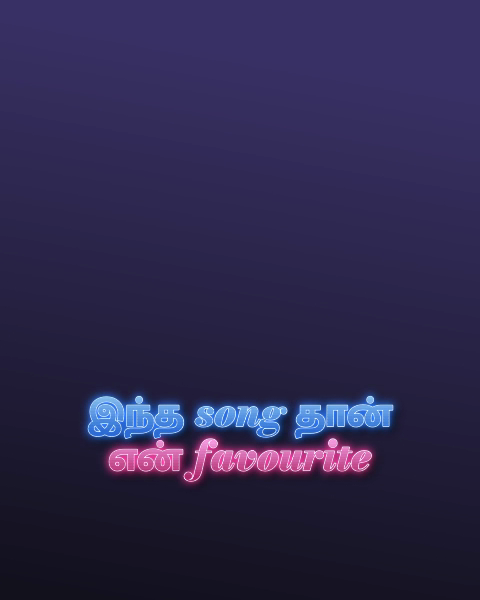
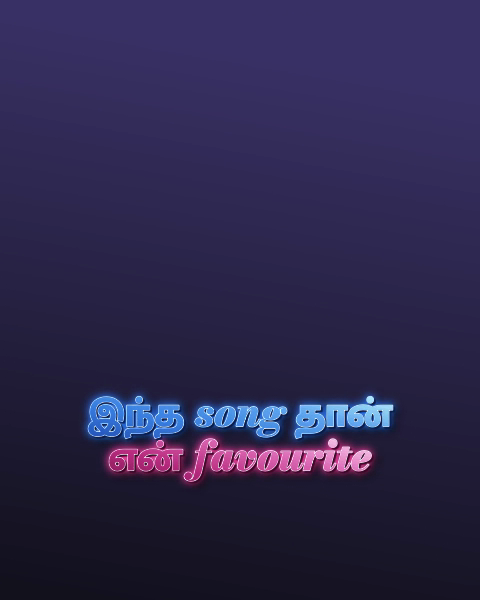
Neon Duo: satin-metal letters as in the reference: each line's metal runs from deep colour at its lower left to near-white at its upper right (light from there), a solid dark depth under the letters, the bright rim and the glow
MP4: the metal as 48 diagonal strips across the whole line (vector clips, each over the one before so no seams), over a glow layer and a rim + depth layer. Editor: the same metal across the line, each word showing its part of it.

Claude-Session: https://claude.ai/code/session_01Vg3xd9etKGRwdzvMY3ibrV

Changed region(s): [[0.1875, 0.66, 0.8438, 0.81]]

diff --git a/lib/captionStyles.ts b/lib/captionStyles.ts
@@ -103,9 +103,10 @@ export type CaptionStyle = {
   // white box flashing onto it and pulling off it (flashStack)
   flashBox?: { serif: string; flash: string; big: number };
   reveal4?: { accent: string; big: number; smallFont: string; small: number; lastFont: string; last: number; silver: [string, string] }; // h: the box's height (em of the punch; BOX_PAD.h)            // staggered lines: only the big middle line is blended (the others stay plain text)
-  // glossy neon lines (Neon Duo): each line its own gradient (top → bottom) and glow, in turn; a thin bright rim round
-  // the letters and a dark shadow under them (a Colour gradient the user sets is every line's instead)
-  neon?: { rows: { grad: [string, string]; glow: string }[]; rim: string };
+  // satin-metal neon lines (Neon Duo): each line, in turn, its metal (colours from its lower left to its upper right,
+  // the light coming from there: METAL_ANGLE), its glow and the dark depth under its letters; a thin bright rim round
+  // the letters (a Colour gradient the user sets is every line's fill instead, top → bottom)
+  neon?: { rows: { metal: [number, string][]; glow: string; depth: string }[]; rim: string };
   gradient?: [string, string];   // the text filled top colour → bottom colour, each line
   opacity?: number;              // 0-1
   rotate?: number;               // degrees, clockwise
@@ -830,7 +831,10 @@ export const CAPTION_STYLES: CaptionStyle[] = [
   { id: "cc-lifted-dot", name: "Lifted Dot", group: "Typography", blurb: "A thin italic line over a huge word; the dot of its i flies up into the italic line. Words fade in, the huge word rises letter by letter (change the colours and fonts in the Style tab).", font: "Inter SemiBold", fontTa: "Mukta Malar ExtraBold", size: 1.13, color: W, shadow: 0.05, shadowColor: "#000000", effect: "liftdot", liftDot: { serif: "Instrument Serif Italic", dot: W, big: 3.4, top: 0.59 } },
   { id: "cc-flash-box", name: "Flash Box", group: "Typography", blurb: "Right-aligned stacked lines, italic serif and clean sans; a white box flashes onto each word as it's said and pulls away to reveal it (change the colours and fonts in the Style tab).", font: "Inter Medium", fontTa: "Mukta Malar ExtraBold", size: 1.1, color: W, shadow: 0.05, shadowColor: "#000000", effect: "flashbox", flashBox: { serif: "Playfair Display Bold Italic", flash: W, big: 2.1 } },
   { id: "cc-letter-rise", name: "Letter Rise", group: "Typography", blurb: "Handwritten Caveat letters flowing in around a big Bebas Neue keyword on its own line.", font: "Caveat Bold", fontTa: "Hind Madurai", size: 1.29, color: W, shadow: 0.04, lineHeight: 0.8, reveal: "letters", flow: true, keyword: { font: "Bebas Neue", scale: 1.57, line: true } },
-  { id: "cc-neon-duo", name: "Neon Duo", group: "Typography", blurb: "Glossy Bodoni italics, the first line ice blue and the next hot pink, each with a bright rim, a neon glow and a shadow under it; each word rises in as it's said.", font: "Bodoni Moda Bold Italic", fontTa: "Mukta Malar ExtraBold", size: 1.13, color: W, lineHeight: 0.65, reveal: "rise", neon: { rows: [{ grad: ["#8EC6F2", "#2D6CD6"], glow: "#2F7BFF" }, { grad: ["#F59BDF", "#B02A6C"], glow: "#FF3FA8" }], rim: "#F2FCFF" } },
+  { id: "cc-neon-duo", name: "Neon Duo", group: "Typography", blurb: "Glossy Bodoni italics, the first line ice blue and the next hot pink, each with a bright rim, a neon glow and a shadow under it; each word rises in as it's said.", font: "Bodoni Moda Bold Italic", fontTa: "Mukta Malar ExtraBold", size: 1.13, color: W, lineHeight: 0.65, reveal: "rise", neon: { rows: [
+    { metal: [[0, "#1C3FA8"], [0.35, "#3A7FE0"], [0.62, "#5FA6EE"], [0.82, "#A6E0F7"], [1, "#EFFCFF"]], glow: "#2F7BFF", depth: "#0A1A4A" },
+    { metal: [[0, "#6E1046"], [0.35, "#B92C80"], [0.62, "#DE6CB8"], [0.82, "#F4BDE3"], [1, "#FFF0FA"]], glow: "#FF3FA8", depth: "#3D0623" },
+  ], rim: "#F2FCFF" } },
   { id: "cc-typo-block", name: "Typo Block", group: "Typography", blurb: "Small white Montserrat words and big Playfair italics in a peach-to-white gradient, mixed in a block, each rising in.", font: "Montserrat SemiBold", fontTa: "Hind Madurai", size: 1.13, color: W, shadow: 0.04, lineHeight: 0.7, effect: "typo", reveal: "rise", typoBig: { font: "Playfair Display Bold Italic", gradient: ["#FFB37A", "#FFFFFF"] } },
   // The Premiere template pack (Drive): its presets, its Reels text and its hooks, remade from our parts. Its
   // Helvetica / Neue Haas Grotesk (commercial) become Inter Bold, Helvetica Rounded becomes Nunito ExtraBold.
@@ -2413,16 +2417,41 @@ export function buildAss(cues: Cue[], o: Opts) {
             const text0 = body((jj, kk) => jj === j && (u.k === null || kk === u.k), tagsFor, g, ...rows[r]).replace(/\{\\r/g, `{\\r${rowTag(r)}`);
             const text = isBig(r) ? upper(text0) : text0;
             const nn = s.neon;
-            if (nn) { // Neon Duo: the glow and shadow under, then the letters with their bright rim, in the line's gradient
-              const look = nn.rows[r % nn.rows.length], ng = grad ?? look.grad, path: [number, number][] = dy ? [[cy + dy, n], [cy, n]] : [];
-              // (the glow and the rim drawn whole, in the gradient's middle colour: the gradient's strips go on top with no edge
-              // of their own, so their seams never show)
-              const fill = `\\1c${colorOnly(mixHex(ng[0], ng[1], 0.5))}`, t0 = Math.max(g.s, u.s);
+            if (nn) { // Neon Duo: the glow under, then the rim and the dark depth, then the letters' metal on top
+              const look = nn.rows[r % nn.rows.length], path: [number, number][] = dy ? [[cy + dy, n], [cy, n]] : [], t0 = Math.max(g.s, u.s);
+              // (the glow and rim layers are filled whole in the metal's middle colour: the strips on top have no edge of
+              // their own, so their seams never show)
+              const fill = `\\1c${colorOnly(grad ? mixHex(grad[0], grad[1], 0.5) : metalAt(look.metal, 0.5))}`;
               const glow = `${fill}\\bord${px(0.05)}\\3c${colorOnly(look.glow)}\\blur${px(0.12)}\\shad${px(0.08)}\\4c&H000000&`;
-              const rim = `${fill}\\bord${px(0.02)}\\3c${colorOnly(nn.rim)}\\blur${px(0.008)}\\shad0`;
+              const rim = `${fill}\\bord${px(0.02)}\\3c${colorOnly(nn.rim)}\\blur${px(0.008)}\\shad${px(0.045)}\\4c${colorOnly(look.depth)}`;
               add(t0, g.e, lead + "{\\q2}" + text.replace(/\{\\r/g, `{\\r${glow}`), 1, 0, 0);
               add(t0, g.e, lead + "{\\q2}" + text.replace(/\{\\r/g, `{\\r${rim}`), 2, 0, 0);
-              strips(t0, g.e, lead, cy, n, "{\\q2}" + text.replace(/\{\\r/g, "{\\r\\bord0\\shad0"), 3, 0, 0, path, ms2, ng, 24); // (finer strips: its colours are far apart)
+              const bare = "{\\q2}" + text.replace(/\{\\r/g, "{\\r\\bord0\\shad0");
+              if (grad) { strips(t0, g.e, lead, cy, n, bare, 3, 0, 0, path, ms2, grad, 24); continue; }
+              // the metal: strips across the whole line (its box: as wide as its text, as tall as the font's line), each
+              // a band running from upper left to lower right, in its colour; the line lit from its upper right
+              const W = Math.max(1, rowW[r]), H = Math.max(1, nats[r]), xc = ax - (hz * W) / 2, yc = p.ys[r];
+              const uOf = ([x, y]: [number, number]) => ((x - xc) * H - (y - yc) * W) / (2 * W * H) + 0.5;
+              const cut = (poly: [number, number][], keep: (q: [number, number]) => number) => { // the part where keep ≥ 0
+                const out: [number, number][] = [];
+                poly.forEach((q, k) => {
+                  const nq = poly[(k + 1) % poly.length], a = keep(q), b = keep(nq);
+                  if (a >= 0) out.push(q);
+                  if ((a >= 0) !== (b >= 0)) { const f = a / (a - b); out.push([q[0] + (nq[0] - q[0]) * f, q[1] + (nq[1] - q[1]) * f]); }
+                });
+                return out;
+              };
+              const room = H * 2, box: [number, number][] = [[xc - W / 2 - room, yc - room], [xc + W / 2 + room, yc - room], [xc + W / 2 + room, yc + room], [xc - W / 2 - room, yc + room]];
+              const overlap = 2.5 / (2 * Math.min(W, H)); // about 2 px, in u
+              for (let k = 0; k < METAL_BANDS; k++) {
+                let poly = box;
+                if (k) poly = cut(poly, (q) => uOf(q) - (k / METAL_BANDS - overlap)); // (over the band before: no seam)
+                if (k < METAL_BANDS - 1) poly = cut(poly, (q) => (k + 1) / METAL_BANDS - uOf(q));
+                if (poly.length < 3) continue;
+                const clip = `\\clip(m ${poly.map(([x, y]) => `${Math.round(x)} ${Math.round(y)}`).join(" l ")})`;
+                const tint = `\\1c${colorOnly(metalAt(look.metal, (k + 0.5) / METAL_BANDS))}`;
+                add(t0, g.e, lead + `{${clip}${tint}}` + bare.replace(/\{\\r/g, `{\\r${tint}`), 3, 0, 0);
+              }
               continue;
             }
             strips(Math.max(g.s, u.s), g.e, lead, cy, n, "{\\q2}" + text, 1, 0, 0, dy ? [[cy + dy, n], [cy, n]] : [], ms2, bigOf(j)?.gradient ?? grad);
@@ -2688,6 +2717,17 @@ export function mixHex(a: string, b: string, t: number) {
 /** Where the letters are in a line's height (the rest is the font's room above and below): the gradient runs across
     them, top colour above, bottom colour below. The editor's CSS gradient uses the same stops. */
 export const GRADIENT_STOPS = [0.22, 0.78] as const;
+/** A metal's colour at t (0-1) along it: its stops blended. */
+export function metalAt(stops: [number, string][], t: number) {
+  const k = stops.findIndex(([at]) => at >= t);
+  if (k <= 0) return k === 0 ? stops[0][1] : stops[stops.length - 1][1];
+  const [a, ca] = stops[k - 1], [b, cb] = stops[k];
+  return mixHex(ca, cb, (t - a) / Math.max(1e-6, b - a));
+}
+/** A metal as CSS: from the box's lower left to its upper right corner (the MP4's strips run the same way). */
+export const metalCss = (stops: [number, string][]) => `linear-gradient(to top right, ${stops.map(([at, c]) => `${c} ${Math.round(at * 100)}%`).join(", ")})`;
+/** Neon Duo's metal strips: how many, across a line. */
+export const METAL_BANDS = 48;
 const inkT = (y: number) => Math.min(1, Math.max(0, (y - GRADIENT_STOPS[0]) / (GRADIENT_STOPS[1] - GRADIENT_STOPS[0])));
 
 /**

diff --git a/components/StyledCaption.tsx b/components/StyledCaption.tsx
@@ -1,5 +1,6 @@
 "use client";
-import { BLENDS, byLetters, staggerBreaks, staggerFlush, POP_MS, SPARK_SLIDE, SPARK_FIT, STAR_AT, STAR_SLIDE, starSpin, boxPunchCut, boxPunchRows, boldBar, BAR_AT, BAR_TIME, cardSlide, cardLines, cardSchedule, dropCap, dropLines, dropSchedule, DROP_AT, DROP_TIME, textReveal, revealLines, revealSchedule, REVEAL_AT, REVEAL_TIME, REVEAL_SHADOW, REVEAL_LAYER, heroStack, stackPages, stackSchedule, dotStack, dotSchedule, DOT_AT, DOT_SHADOW, DOT_TIME, outlineCut, cutSchedule, CUT_AT, CUT_TIME, liftDot, liftSchedule, LIFT_AT, LIFT_SHADOW, LIFT_TIME, flashStack, flashSchedule, FLASH_AT, FLASH_SHADOW, FLASH_TIME, FLASH_STRIKE, FLASH_BURST, strikeAt, STACK_AT, STACK_SHADOW, STACK_TIME, mixHex, cardWidths, cardWidthAt, CARD_AT, CARD_TIME, easeInOut, boxStart, BOX_WIPE, BOX_RISE, BOX_PAD, SPARK_WORD_UP, starPoints, needsSlant, SLANT, CAPTION_FONTS, GLOW, caseOf, CINE_BIG, CINE_OVER, cineBig, cineFont, cineRows, GRADIENT_STOPS, highlights, lineBox, lineCount, linesOf, spacesLines, takesLineSpacing, nameOrKeyword, wordGroups, cornerRows, FLICKER, FLICKER2, flickerOn, HOOK_STEP, hookChunks, keywordIndex, resolveStyle, RISE, RISE_DY, revealUnits, stackBig, stackChunks, keywordRows, typoBreaks, typoSize, wordTimes, type CaptionCustom } from "@/lib/captionStyles";
+import { cloneElement } from "react";
+import { metalCss, BLENDS, byLetters, staggerBreaks, staggerFlush, POP_MS, SPARK_SLIDE, SPARK_FIT, STAR_AT, STAR_SLIDE, starSpin, boxPunchCut, boxPunchRows, boldBar, BAR_AT, BAR_TIME, cardSlide, cardLines, cardSchedule, dropCap, dropLines, dropSchedule, DROP_AT, DROP_TIME, textReveal, revealLines, revealSchedule, REVEAL_AT, REVEAL_TIME, REVEAL_SHADOW, REVEAL_LAYER, heroStack, stackPages, stackSchedule, dotStack, dotSchedule, DOT_AT, DOT_SHADOW, DOT_TIME, outlineCut, cutSchedule, CUT_AT, CUT_TIME, liftDot, liftSchedule, LIFT_AT, LIFT_SHADOW, LIFT_TIME, flashStack, flashSchedule, FLASH_AT, FLASH_SHADOW, FLASH_TIME, FLASH_STRIKE, FLASH_BURST, strikeAt, STACK_AT, STACK_SHADOW, STACK_TIME, mixHex, cardWidths, cardWidthAt, CARD_AT, CARD_TIME, easeInOut, boxStart, BOX_WIPE, BOX_RISE, BOX_PAD, SPARK_WORD_UP, starPoints, needsSlant, SLANT, CAPTION_FONTS, GLOW, caseOf, CINE_BIG, CINE_OVER, cineBig, cineFont, cineRows, GRADIENT_STOPS, highlights, lineBox, lineCount, linesOf, spacesLines, takesLineSpacing, nameOrKeyword, wordGroups, cornerRows, FLICKER, FLICKER2, flickerOn, HOOK_STEP, hookChunks, keywordIndex, resolveStyle, RISE, RISE_DY, revealUnits, stackBig, stackChunks, keywordRows, typoBreaks, typoSize, wordTimes, type CaptionCustom } from "@/lib/captionStyles";
 import { cssBaseline, lineScale, textWidth } from "@/lib/fontWidths";
 import { breakLines, lineBreaks, typedBreaks } from "@/lib/subtitles";
 import type { WordLook } from "@/db/schema";
@@ -644,14 +645,24 @@ export default function StyledCaption({ styleId, custom, text, sub, start, end, 
         {join(a, to).filter((x) => typeof x !== "object" || x === null || (x as React.ReactElement).type !== "br")}</span>;
     })}</span>;
   } else if (s.neon) {
-    // Neon Duo (as the MP4): each line its own gradient and glow, a thin bright rim round the letters, a dark shadow under
+    // Neon Duo (as the MP4): each line its metal (across the whole line: each word showing its part of it), glow and
+    // dark depth, a thin bright rim round the letters
     const nn = s.neon, starts = [0, ...[...brk].filter((b) => b < words.length - 1).sort((a, b) => a - b).map((b) => b + 1)];
+    const sp = textWidth(" ", s.font, s.fontTa), lineH = lineScale(s.font);
     body = <span className="stagger">{starts.map((a, r) => {
       const look = nn.rows[r % nn.rows.length], to = r + 1 < starts.length ? starts[r + 1] : words.length;
-      return <span key={a} className={grad ? undefined : "grad"} style={{ textAlign: "center", WebkitTextStroke: `.02em ${nn.rim}`,
-        filter: `drop-shadow(0 0 .05em ${look.glow}) drop-shadow(0 0 .14em ${look.glow}c0) drop-shadow(.06em .08em .06em rgba(0,0,0,.85))`,
-        ...(grad ? {} : { "--grad": `linear-gradient(${look.grad[0]} ${GRADIENT_STOPS[0] * 100}%, ${look.grad[1]} ${GRADIENT_STOPS[1] * 100}%)` }) } as React.CSSProperties}>
-        {join(a, to).filter((x) => typeof x !== "object" || x === null || (x as React.ReactElement).type !== "br")}</span>;
+      const ws = words.slice(a, to).map((w) => textWidth(w.w, s.font, s.fontTa)), W = Math.max(0.3, ws.reduce((t, x) => t + x, 0) + sp * (ws.length - 1));
+      let left = 0;
+      const parts = join(a, to).filter((x) => typeof x !== "object" || x === null || (x as React.ReactElement).type !== "br").map((x) => {
+        if (!x || typeof x !== "object") return x;
+        const el = x as React.ReactElement<{ style?: React.CSSProperties }>;
+        const at = left;
+        left += (ws.shift() ?? 0) + sp;
+        return grad ? el : cloneElement(el, { style: { ...el.props.style, backgroundImage: metalCss(look.metal), backgroundSize: `${W.toFixed(3)}em ${lineH}em`,
+          backgroundPosition: `${(-at).toFixed(3)}em 0`, backgroundRepeat: "no-repeat", WebkitBackgroundClip: "text", backgroundClip: "text", WebkitTextFillColor: "transparent" } });
+      });
+      return <span key={a} style={{ textAlign: "center", WebkitTextStroke: `.02em ${nn.rim}`,
+        filter: `drop-shadow(.035em .045em 0 ${look.depth}) drop-shadow(0 0 .05em ${look.glow}) drop-shadow(0 0 .14em ${look.glow}c0) drop-shadow(.06em .08em .06em rgba(0,0,0,.85))` }}>{parts}</span>;
     })}</span>;
   } else {
     body = join(0, words.length);
